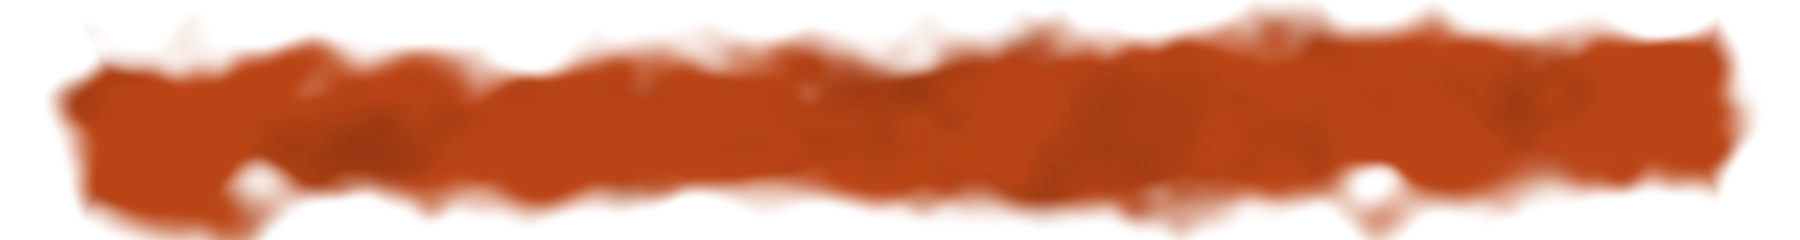
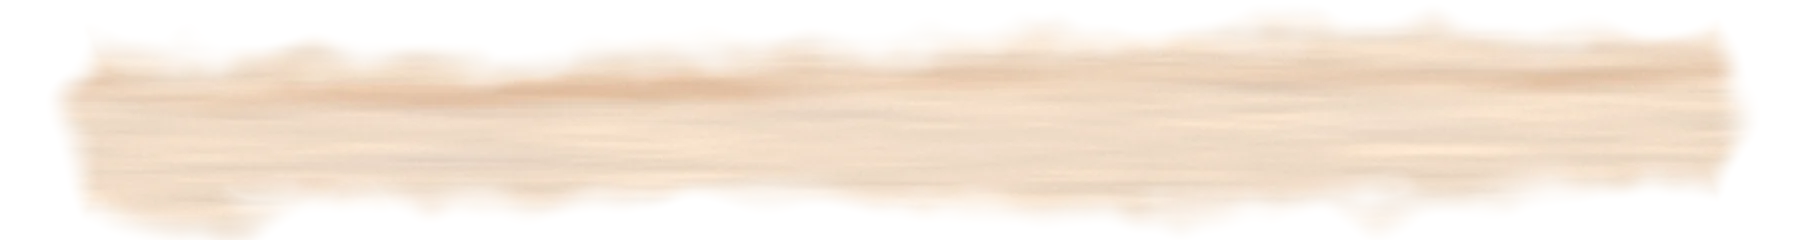
Home strip: painted like the street under the houses
make_wash.py now paints a pale sand wash in horizontal strokes with a
sienna kerb streak and a faint violet shadow, sampled from the painting's
street; night versions in the night street's tint. Bloom noise capped so
the soft edge has no holes. Labels olive / icons terracotta by day, cream /
soft terracotta at night.

diff --git a/css/style.css b/css/style.css
@@ -591,17 +591,16 @@ html.zooming-out .hero-text { transition: opacity .6s ease .55s; }
 
 /* ---------- Details ---------- */
 
-/* The pages, on a terracotta watercolour wash right under the village
-   (tools/make_wash.py): ragged painted edges, pigment pooling at the rims,
-   cream text at 4.8 : 1 or more. At night the wash takes the painting's
-   dusk tint and the icons step back. */
+/* The pages, on a pale wash painted like the street under the houses
+   (tools/make_wash.py). Olive labels and terracotta icons by day; at night
+   the wash takes the night street's tint and the text turns cream. */
 .strip {
   position: relative;
   z-index: 3;
   max-width: 1180px;
   margin: 0 auto clamp(40px, 6vw, 72px);
   padding: 0 clamp(0px, 2vw, 24px);
-  color: #fbf3e4;
+  color: #4b4b31;
 }
 .strip ul {
   display: grid;
@@ -612,7 +611,7 @@ html.zooming-out .hero-text { transition: opacity .6s ease .55s; }
   background: url("../assets/wash-wide.webp") center / 100% 100% no-repeat;
 }
 :root[data-theme="night"] .strip ul { background-image: url("../assets/wash-wide-night.webp"); }
-:root[data-theme="night"] .strip { color: #e9e2d2; }
+:root[data-theme="night"] .strip { color: #e6e0d0; }
 .strip a {
   display: grid;
   justify-items: center;
@@ -625,7 +624,8 @@ html.zooming-out .hero-text { transition: opacity .6s ease .55s; }
   text-decoration: none;
 }
 .strip svg {
-  --tint: rgba(251, 243, 228, .22);
+  --tint: rgba(181, 67, 42, .16);
+  color: #b5432a;
   width: 32px;
   height: 32px;
   fill: none;
@@ -635,7 +635,7 @@ html.zooming-out .hero-text { transition: opacity .6s ease .55s; }
   stroke-linejoin: round;
   transition: transform .35s var(--ease);
 }
-:root[data-theme="night"] .strip svg { --tint: rgba(233, 226, 210, .12); opacity: .8; }
+:root[data-theme="night"] .strip svg { --tint: rgba(232, 160, 132, .14); color: #e3a58a; opacity: .85; }
 .strip a:hover svg { transform: translateY(-3px) rotate(-6deg); }
 .strip a:focus-visible { outline: 2px solid currentColor; outline-offset: -2px; }
 .hint { position: relative; z-index: 3; margin: 0 auto 10px; padding: 0 16px; text-align: center; font-size: var(--fs-s); color: var(--muted); }

diff --git a/index.html b/index.html
@@ -9,7 +9,7 @@
   <link rel="preconnect" href="https://fonts.gstatic.com" crossorigin>
   <link href="https://fonts.googleapis.com/css2?family=Beth+Ellen&family=Cormorant+Garamond:wght@500;600&family=Cormorant+SC:wght@700&family=Inter:wght@400;500;600&family=Lora:ital,wght@0,400;0,600;1,400&display=swap" rel="stylesheet">
   <link rel="preload" as="image" href="assets/village-day.webp">
-  <link rel="stylesheet" href="css/style.css?v=49">
+  <link rel="stylesheet" href="css/style.css?v=50">
   <script>
     (function () {
       var saved = null;

diff --git a/accommodation.html b/accommodation.html
@@ -7,7 +7,7 @@
   <link rel="preconnect" href="https://fonts.googleapis.com">
   <link rel="preconnect" href="https://fonts.gstatic.com" crossorigin>
   <link href="https://fonts.googleapis.com/css2?family=Beth+Ellen&family=Cormorant+Garamond:wght@500;600&family=Cormorant+SC:wght@700&family=Inter:wght@400;500;600&family=Lora:ital,wght@0,400;0,600;1,400&display=swap" rel="stylesheet">
-  <link rel="stylesheet" href="css/style.css?v=49">
+  <link rel="stylesheet" href="css/style.css?v=50">
   <script>
     (function () {
       var saved = null;

diff --git a/location.html b/location.html
@@ -7,7 +7,7 @@
   <link rel="preconnect" href="https://fonts.googleapis.com">
   <link rel="preconnect" href="https://fonts.gstatic.com" crossorigin>
   <link href="https://fonts.googleapis.com/css2?family=Beth+Ellen&family=Cormorant+Garamond:wght@500;600&family=Cormorant+SC:wght@700&family=Inter:wght@400;500;600&family=Lora:ital,wght@0,400;0,600;1,400&display=swap" rel="stylesheet">
-  <link rel="stylesheet" href="css/style.css?v=49">
+  <link rel="stylesheet" href="css/style.css?v=50">
   <script>
     (function () {
       var saved = null;

diff --git a/map.html b/map.html
@@ -7,7 +7,7 @@
   <link rel="preconnect" href="https://fonts.googleapis.com">
   <link rel="preconnect" href="https://fonts.gstatic.com" crossorigin>
   <link href="https://fonts.googleapis.com/css2?family=Beth+Ellen&family=Cormorant+Garamond:wght@500;600&family=Cormorant+SC:wght@700&family=Inter:wght@400;500;600&family=Lora:ital,wght@0,400;0,600;1,400&display=swap" rel="stylesheet">
-  <link rel="stylesheet" href="css/style.css?v=49">
+  <link rel="stylesheet" href="css/style.css?v=50">
   <script>
     (function () {
       var saved = null;

diff --git a/program.html b/program.html
@@ -7,7 +7,7 @@
   <link rel="preconnect" href="https://fonts.googleapis.com">
   <link rel="preconnect" href="https://fonts.gstatic.com" crossorigin>
   <link href="https://fonts.googleapis.com/css2?family=Beth+Ellen&family=Cormorant+Garamond:wght@500;600&family=Cormorant+SC:wght@700&family=Inter:wght@400;500;600&family=Lora:ital,wght@0,400;0,600;1,400&display=swap" rel="stylesheet">
-  <link rel="stylesheet" href="css/style.css?v=49">
+  <link rel="stylesheet" href="css/style.css?v=50">
   <script>
     (function () {
       var saved = null;

diff --git a/rsvp.html b/rsvp.html
@@ -7,7 +7,7 @@
   <link rel="preconnect" href="https://fonts.googleapis.com">
   <link rel="preconnect" href="https://fonts.gstatic.com" crossorigin>
   <link href="https://fonts.googleapis.com/css2?family=Beth+Ellen&family=Cormorant+Garamond:wght@500;600&family=Cormorant+SC:wght@700&family=Inter:wght@400;500;600&family=Lora:ital,wght@0,400;0,600;1,400&display=swap" rel="stylesheet">
-  <link rel="stylesheet" href="css/style.css?v=49">
+  <link rel="stylesheet" href="css/style.css?v=50">
   <script>
     (function () {
       var saved = null;

diff --git a/travel.html b/travel.html
@@ -7,7 +7,7 @@
   <link rel="preconnect" href="https://fonts.googleapis.com">
   <link rel="preconnect" href="https://fonts.gstatic.com" crossorigin>
   <link href="https://fonts.googleapis.com/css2?family=Beth+Ellen&family=Cormorant+Garamond:wght@500;600&family=Cormorant+SC:wght@700&family=Inter:wght@400;500;600&family=Lora:ital,wght@0,400;0,600;1,400&display=swap" rel="stylesheet">
-  <link rel="stylesheet" href="css/style.css?v=49">
+  <link rel="stylesheet" href="css/style.css?v=50">
   <script>
     (function () {
       var saved = null;

diff --git a/weather.html b/weather.html
@@ -7,7 +7,7 @@
   <link rel="preconnect" href="https://fonts.googleapis.com">
   <link rel="preconnect" href="https://fonts.gstatic.com" crossorigin>
   <link href="https://fonts.googleapis.com/css2?family=Beth+Ellen&family=Cormorant+Garamond:wght@500;600&family=Cormorant+SC:wght@700&family=Inter:wght@400;500;600&family=Lora:ital,wght@0,400;0,600;1,400&display=swap" rel="stylesheet">
-  <link rel="stylesheet" href="css/style.css?v=49">
+  <link rel="stylesheet" href="css/style.css?v=50">
   <script>
     (function () {
       var saved = null;

diff --git a/tools/make_wash.py b/tools/make_wash.py
@@ -1,27 +1,30 @@
-"""The terracotta watercolour wash behind the home page's strip of pages.
+"""The wash behind the home page's strip of pages, painted like the street
+under the houses in the village painting.
 
   out: assets/wash-wide.webp, assets/wash-tall.webp            (day)
        assets/wash-wide-night.webp, assets/wash-tall-night.webp (night)
 
-A band painted wet-in-wet: its edges fade and bloom softly into the paper,
-with soft blotches and paper grain inside. "wide" is for desktop (6 pages in a row),
-"tall" for phones (3 x 2). Night versions use the same tint as the night
-painting (tools/make_layers.py), so the strip sits in the same dusk.
+A pale sand wash in long horizontal strokes, a warmer sienna streak along the
+top like the kerb, a faint violet shadow, edges that fade softly into the
+paper. "wide" is for desktop (6 pages in a row), "tall" for phones (3 x 2).
+Night versions use the night painting's tint, like the night street.
 
-The pigment stays dark enough for cream text (lightest areas ~4.5 : 1).
+Dark olive labels sit on it by day (> 7 : 1), cream labels by night.
 Run from the project root:  python tools/make_wash.py
 """
 import numpy as np
 from PIL import Image
 from scipy import ndimage
 
-PIGMENT = np.array([186, 68, 22])        # roof terracotta, a touch deeper than the roofs
+SAND = np.array([241, 220, 199])          # the street in the painting
+SIENNA = np.array([214, 166, 128])        # the kerb streak
+SHADOW = np.array([214, 204, 222])        # faint violet shadow
 NIGHT_TINT = np.array([0.24, 0.29, 0.48])
 
 
 def night(rgb):
     lum = rgb @ np.array([.299, .587, .114])
-    return (rgb * .7 + lum[..., None] * .3) * NIGHT_TINT * 1.9   # a little lighter than the walls
+    return (rgb * .7 + lum[..., None] * .3) * NIGHT_TINT * 1.05   # the night street
 
 
 def noise(rng, h, w, cell, amp):
@@ -54,14 +57,23 @@ def wash(w, h, seed):
     right = w - end + edge(rng, h, end * .3)[:, None] - (2 * (yy / h) - 1) ** 2 * end * .8
     inside = np.minimum.reduce([yy - top[None, :], bottom[None, :] - yy, xx - left, right - xx])
     # blooms: the wet edge creeps out unevenly
-    inside = inside + noise(rng, h, w, 60, feather * .4) + noise(rng, h, w, 24, feather * .08)
+    inside = inside + np.clip(noise(rng, h, w, 60, feather * .3), -feather * .25, None) + noise(rng, h, w, 24, feather * .06)
     t = np.clip((inside + feather * .55) / (feather * 1.4), 0, 1)
     alpha = t * t * (3 - 2 * t)                   # smoothstep
 
-    blotch = noise(rng, h, w, 120, .06) + noise(rng, h, w, 34, .03)
-    grain = ndimage.gaussian_filter(rng.normal(0, .022, (h, w)), .6)
-    shade = 1 + blotch + grain
-    rgb = PIGMENT[None, None, :] * np.clip(shade, .82, 1.0)[..., None]
+    def strokes(cx, cy, amp):          # long horizontal brush strokes
+        small = rng.normal(0, 1, (h // cy + 2, w // cx + 2)).astype(np.float32)
+        return np.asarray(Image.fromarray(small).resize((w, h), Image.BICUBIC)) * amp
+
+    rgb = SAND[None, None, :] * (1 + strokes(180, 9, .018) + strokes(60, 4, .01))[..., None]
+    # sienna streak a third of the way down, broken up along its length
+    y_kerb = top + (bottom - top) * .26
+    kerb = np.exp(-((yy - y_kerb[None, :]) / (h * .06)) ** 2) * np.clip(.55 + strokes(140, 30, .45), 0, 1)
+    rgb = rgb * (1 - kerb[..., None] * .55) + SIENNA[None, None, :] * (kerb[..., None] * .55)
+    # a faint cool shadow lower down, like the painting's
+    cool = np.exp(-((yy - (top + (bottom - top) * .6)[None, :]) / (h * .12)) ** 2) * np.clip(strokes(220, 40, .6), 0, 1) * .35
+    rgb = rgb * (1 - cool[..., None]) + SHADOW[None, None, :] * cool[..., None]
+    rgb = rgb * (1 + ndimage.gaussian_filter(rng.normal(0, .012, (h, w)), .6))[..., None]
     return np.clip(rgb, 0, 255), alpha
 
 
@@ -70,4 +82,4 @@ for name, (w, h, seed) in {"wide": (1800, 240, 11), "tall": (900, 520, 12)}.item
     for suffix, col in (("", rgb), ("-night", night(rgb))):
         out = np.dstack([np.clip(col, 0, 255), a * 255]).astype(np.uint8)
         Image.fromarray(out, "RGBA").save(f"assets/wash-{name}{suffix}.webp", quality=86, alpha_quality=90, method=6)
-    print(name, (w, h), "lightest", rgb[a > .99].max(0).round(), "darkest", rgb[a > .99].min(0).round())
+    print(name, (w, h), "lightest", rgb[a > .99].max(0).round(), "darkest", rgb[a > .99].min(0).round(), "mean", rgb[a > .99].mean(0).round())

diff --git a/tools/make_pages.py b/tools/make_pages.py
@@ -355,7 +355,7 @@ HEAD = """<!doctype html>
   <link rel="preconnect" href="https://fonts.googleapis.com">
   <link rel="preconnect" href="https://fonts.gstatic.com" crossorigin>
   <link href="https://fonts.googleapis.com/css2?family=Beth+Ellen&family=Cormorant+Garamond:wght@500;600&family=Cormorant+SC:wght@700&family=Inter:wght@400;500;600&family=Lora:ital,wght@0,400;0,600;1,400&display=swap" rel="stylesheet">
-  <link rel="stylesheet" href="css/style.css?v=49">
+  <link rel="stylesheet" href="css/style.css?v=50">
   <script>
     (function () {{
       var saved = null;

diff --git a/CHANGELOG.md b/CHANGELOG.md
@@ -9,7 +9,7 @@ Newest first. Dates are when the change was made; "Unreleased" is not pushed to 
 - **Good to know** (Travel) is eight icons with one short line each – "1 hour behind Prague", "No roaming in the EU", "Small beer: *um imperial*", "Emergency: 112" – instead of eight cards with headings and paragraphs.
 - **Weather numbers** are an open row between two hairlines instead of three boxed cards, with the icons tinted in the page's ink.
 - **On phones the watercolour objects are small accents** (sun, crabs, disco ball, oysters, sardine – 150 px at most) instead of filling a screen each.
-- **The home strip is painted:** the flat orange block is now a terracotta watercolour wash, painted wet-in-wet so its edges fade and bloom softly into the paper (its own shape on phones). At night it takes the dusk tint of the night village and the icons are lighter and quieter, so they no longer glare.
+- **The home strip is painted like the street in the village:** instead of a flat orange block, the pages sit on a pale sand wash in horizontal strokes with a warm kerb streak, fading softly into the paper. Terracotta icons and olive labels by day; at night the wash takes the night street's dusk colour and the labels turn cream.
 - **One ink per page, from the village:** titles and accents use only the painting's three pigments – azulejo blue, roof terracotta, sage olive – and every section keeps its page's ink (Program was wine, coral and brown; Stay had a wine section; Travel a brown one; dishes rust).
 - **Footer:** the little drawing is replaced by the village painting itself, small – the same three houses as on the home page, and at night the dark version with the windows lit.
 - **Home:** "Everything in the village is clickable…" now sits between the village and the orange strip.
